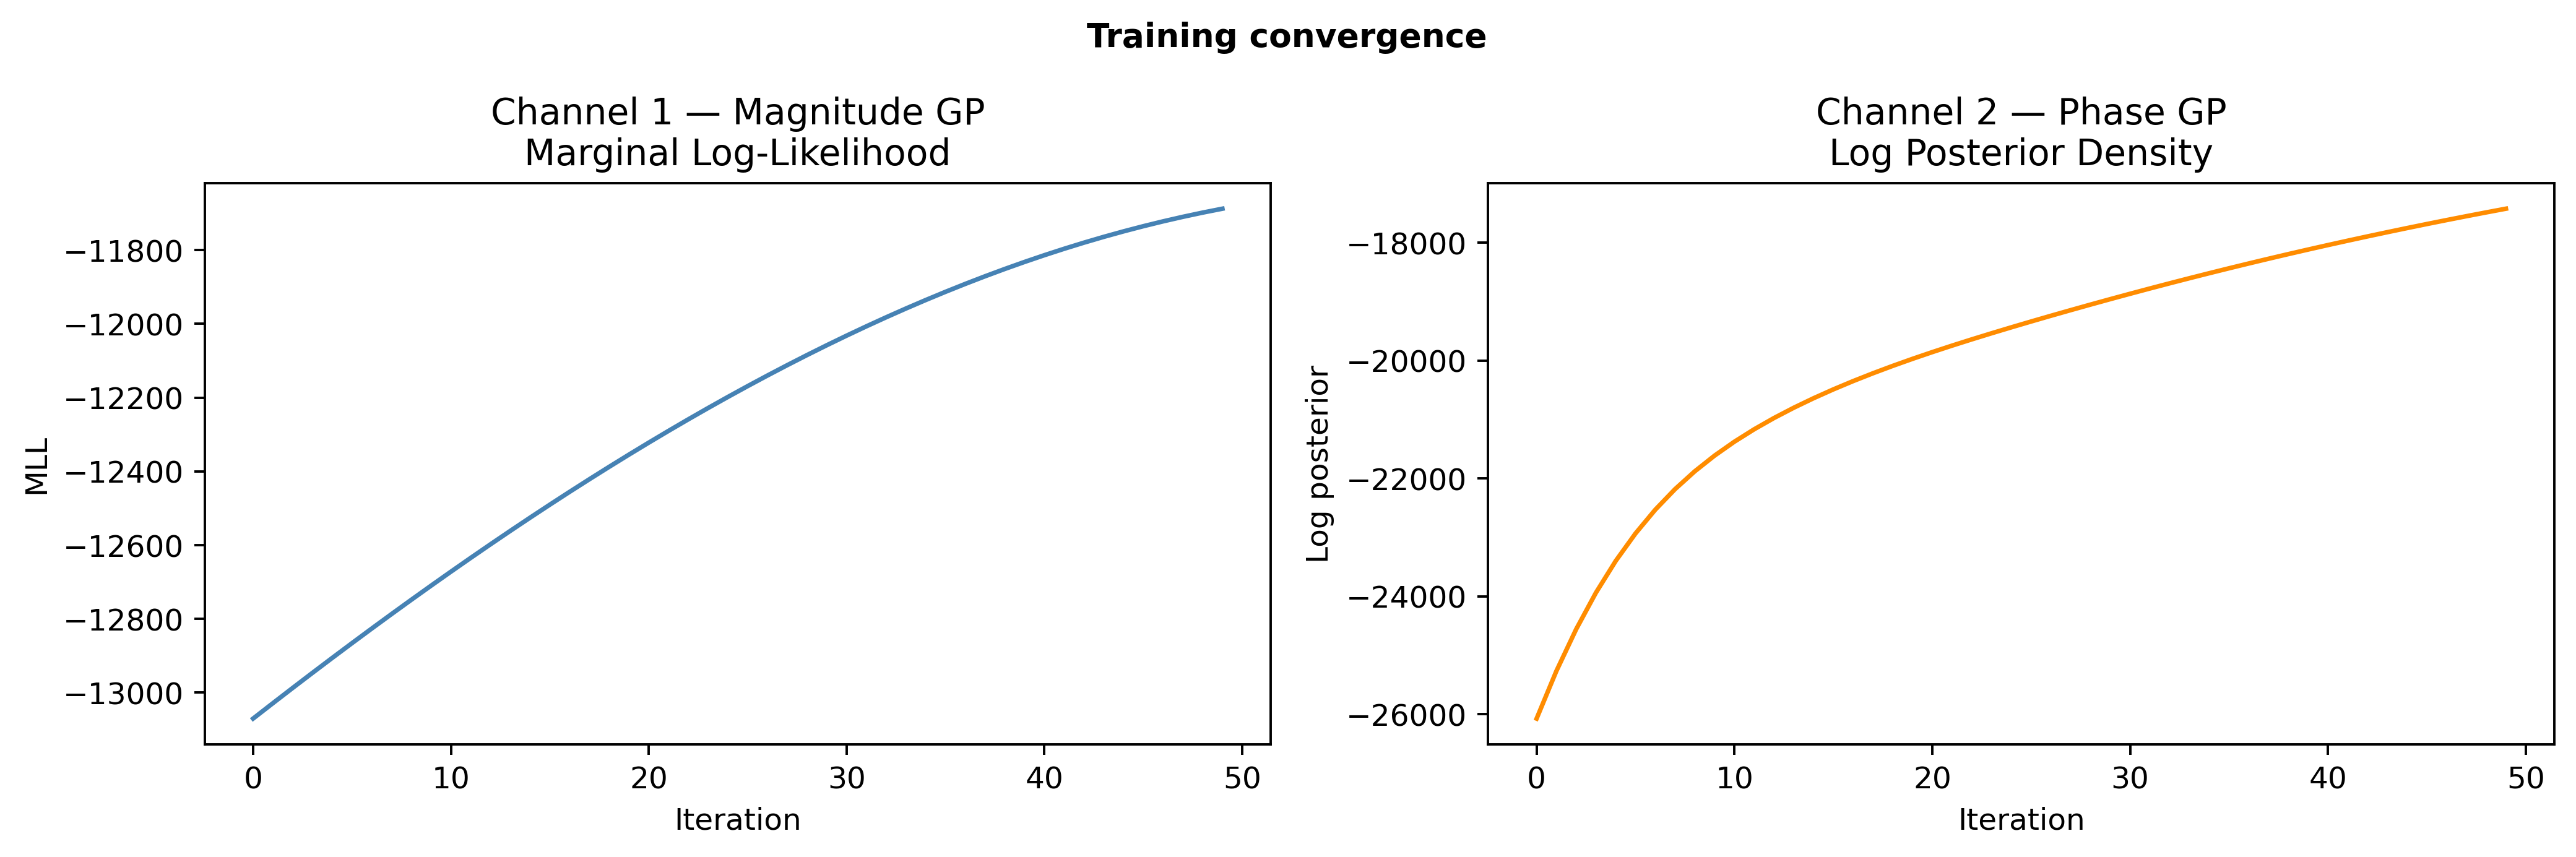
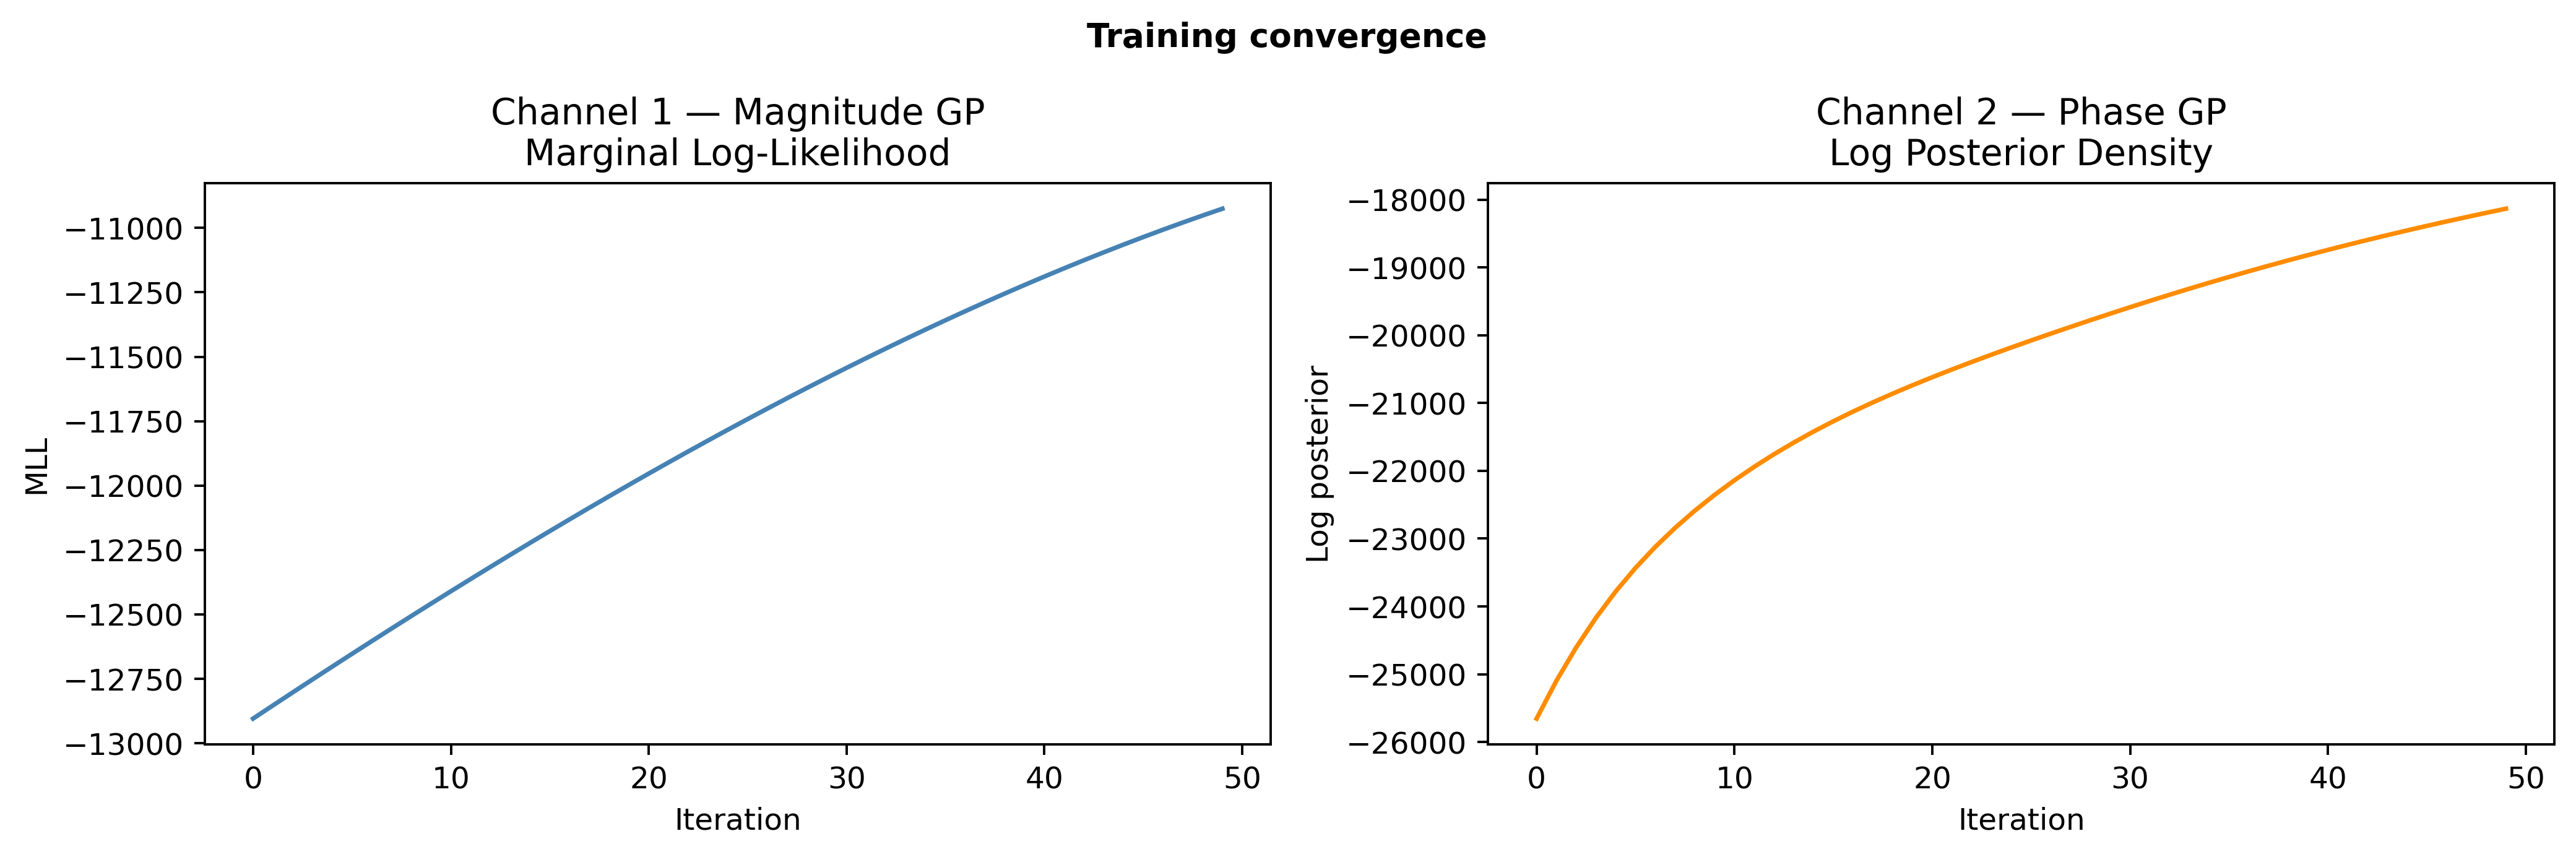
Please enter the commit message for your changes. Lines starting with '#' will be ignored, and an empty message aborts the commit.
On branch main
Your branch is up to date with 'origin/main'.

Changes to be committed:
	modified:   800kHz_CUDA_Outputs_Thickness/CUDA_frf_surface.png
	new file:   800kHz_CUDA_Outputs_Thickness/CUDA_gp_model.pkl
	new file:   800kHz_CUDA_Outputs_Thickness/CUDA_phase_surface.png
	modified:   800kHz_CUDA_Outputs_Thickness/CUDA_training_history.png
	new file:   800kHz_CUDA_Outputs_Thickness/mag_posterior.eqx
	new file:   800kHz_CUDA_Outputs_Thickness/sign_posterior.eqx
	modified:   Bivar_Cuda_GP.py
	modified:   GPU_myjob.e
	modified:   GPU_myjob.o

diff --git a/Bivar_Cuda_GP.py b/Bivar_Cuda_GP.py
@@ -25,13 +25,13 @@ Reconstruction:
 Kernel (both channels):
     k((ρ,f),(ρ',f')) = k_ρ(ρ,ρ') · k_f(f,f')   — Matérn 5/2 in each dim
 
-The training inputs form a grid (n_ρ × n_f), which enables Kronecker
+The training inputs form a grid (n_ρ × n_th x n_f), which enables Kronecker
 structure for efficient inference (see note at bottom of file).
 
 Created: 05/27/2026
 
 Modifications: This version of the code exploits GPU Parallelization
-Mallorie
+Ma110ri3 parallelization 
 """
 
 # ═════════════════════════════════════════════════════════════════════════════
@@ -78,8 +78,10 @@ n_rho = 25
 rho_0 = 0.2
 rho_values  = np.linspace(rho_0, 1.0-rho_0, 25)[:n_rho]
 thick_values = np.arange(0.0,6.0,1.0)
-dd = 7
-freq_values = np.arange(100.0, 601.0, dd, dtype=np.float64)
+# dd = 7
+dd = 11
+# freq_values = np.arange(100.0, 601.0, dd, dtype=np.float64)
+freq_values = np.arange(1.0, 800.0, dd, dtype=np.float64)
 frf_matrix  = np.zeros((np.shape(rho_values)[0]*np.shape(thick_values)[0],np.shape(freq_values)[0]))
 
 print(np.shape(frf_matrix))
@@ -88,12 +90,14 @@ cont0 = 0
 for cont1 in range(n_rho):
     # filn = '/work/ljk354/FRF_Optim/Training/CAE/Results_T1D' + str(cont1+1) + '.txt'
     filn = '/work/ljk354/FRF_Optim/Learning_GP/Data/Results_T1D' + str(cont1+1) + '.txt'
-    frf_matrix[cont0,:] = np.loadtxt(filn, skiprows=3)[99:600:dd,1].T
+    # frf_matrix[cont0,:] = np.loadtxt(filn, skiprows=3)[99:600:dd,1].T
+    frf_matrix[cont0,:] = np.loadtxt(filn, skiprows=3)[::dd,1].T
     cont0 += 1
     for cont2 in range(np.shape(thick_values)[0]-1):
         print(cont2)
         filn = '/work/ljk354/FRF_Optim/Learning_GP/Data_Th/Results_T1D' + str(cont1+1) + 'H' + str(2*cont2+1) + '.txt'
-        frf_matrix[cont0,:] = np.loadtxt(filn, skiprows=3)[99:600:dd,1].T
+        # frf_matrix[cont0,:] = np.loadtxt(filn, skiprows=3)[99:600:dd,1].T
+        frf_matrix[cont0,:] = np.loadtxt(filn, skiprows=3)[::dd,1].T
         cont0 += 1
     # end for
 # end for
@@ -669,7 +673,7 @@ os.chdir(foldr_out)
 
 # for res in loo_results:
 #     fig = plot_loo_result(res, freq_values)
-#     fig.savefig(f"CUDA_loo_fold_{res['fold']+1}.png", dpi=150, bbox_inches="tight")
+#     fig.savefig(f"CUDA_loo_fold_{res['fold']+1}.png", dpi=350, bbox_inches="tight")
 #     plt.close(fig)
 #     print(f"  Saved CUDA_loo_fold_{res['fold']+1}.png")
 # # end for
@@ -848,7 +852,7 @@ print("═" * 60)
 def plot_frf_surface(
     rho_values: np.ndarray,
     thick_values: np.ndarray,
-    frf_tensor: np.ndarray,      # (n_rho, n_thick, n_freq)
+    frf_matrix: np.ndarray,      # (n_rho, n_thick, n_freq)
     freq_values: np.ndarray,
     model: dict,
     rho_dense: np.ndarray = None,
@@ -869,15 +873,19 @@ def plot_frf_surface(
 
     if rho_dense is None:
         rho_dense = np.linspace(rho_values.min(), rho_values.max(), 25)
+    # end if
 
     if thick_dense is None:
         thick_dense = np.linspace(thick_values.min(), thick_values.max(), 25)
+    # end if
 
     if rho_fixed is None:
         rho_fixed = rho_values[len(rho_values)//2]
+    # end if
 
     if thick_fixed is None:
         thick_fixed = thick_values[len(thick_values)//2]
+    # end if
 
     rho_idx = np.argmin(np.abs(rho_values-rho_fixed))
     thick_idx = np.argmin(np.abs(thick_values-thick_fixed))
@@ -885,6 +893,18 @@ def plot_frf_surface(
     fig, axs = plt.subplots(2,2,figsize=figsize)
 
     cmap = plt.cm.viridis
+    
+    ###############################################################
+    # (0) Create frf_tensor
+    ###############################################################
+    frf_tensor = np.zeros((len(rho_values), len(thick_values), len(freq_values)))
+    cont0 = 0
+    for cont1 in range(len(rho_values)):
+        for cont2 in range(len(thick_values)):
+            frf_tensor[cont1, cont2, :] = frf_matrix[cont0, :]
+            cont0 += 1
+        # end for
+    # end for
 
     ###############################################################
     # (1) Training data : varying rho
@@ -1006,6 +1026,7 @@ def plot_frf_surface(
     fig.tight_layout()
 
     return fig
+# end plot_frf_surface
 
 # fig_surf = plot_frf_surface(
 #     rho_values, thick_values, frf_matrix, freq_values, model,
@@ -1025,39 +1046,236 @@ fig_surf = plot_frf_surface(
 fig_surf.savefig("CUDA_frf_surface.png", dpi=350, bbox_inches="tight")
 plt.close(fig_surf)
 
-print("\nDone. Outputs: loo_fold_*.png | training_history.png | frf_surface.png")
+print("\nDone frf_surface.png")
 print("═" * 60)
 
-# # ═════════════════════════════════════════════════════════════════════════════
-# # 8. Save model
-# # ═════════════════════════════════════════════════════════════════════════════
-# print("\n" + "═" * 60)
-# print("STEP 8 — Saving model")
-# print("═" * 60)
+# ═════════════════════════════════════════════════════════════════════════════
+# 8. Predict at a new density & visualise the Phase surface
+# ═════════════════════════════════════════════════════════════════════════════
+print("\n" + "═" * 60)
+print("STEP 8 — Starting Phase Surface Visualisation")
+print("═" * 60)
 
-# # Saving the model using pkl
-# import pickle
-# with open("CUDA_gp_model.pkl", "wb") as f:
-#     pickle.dump(model, f)
+def plot_phase_surface(
+    rho_values: np.ndarray,
+    thick_values: np.ndarray,
+    frf_matrix: np.ndarray,
+    freq_values: np.ndarray,
+    model: dict,
+    rho_dense: np.ndarray=None,
+    thick_dense: np.ndarray=None,
+    rho_fixed: float=None,
+    thick_fixed: float=None,
+    figsize=(15,10),
+):
+    """
+    Four-panel visualization of phase.
 
-# # Saving the model using equinos
-# import equinox as eqx 
-# eqx.tree_serialise_leaves("CUDA_gp_model.eqx", model)
+        (1) Training phase varying rho
+        (2) GP phase varying rho
 
-# print("\nFinished saving model")
-# print("═" * 60)
+        (3) Training phase varying thickness
+        (4) GP phase varying thickness
+    """
 
+    if rho_dense is None:
+        rho_dense = np.linspace(rho_values.min(), rho_values.max(),25)
+    # end if
 
- 
+    if thick_dense is None:
+        thick_dense = np.linspace(thick_values.min(), thick_values.max(),25)
+    # end if
 
+    if rho_fixed is None:
+        rho_fixed = rho_values[len(rho_values)//2]
+    # end if
 
+    if thick_fixed is None:
+        thick_fixed = thick_values[len(thick_values)//2]
+    # end if
 
+    rho_idx   = np.argmin(np.abs(rho_values-rho_fixed))
+    thick_idx = np.argmin(np.abs(thick_values-thick_fixed))
 
+    fig,axs = plt.subplots(2,2,figsize=figsize)
 
+    cmap = plt.cm.viridis
 
+    ###############################################################
+    # (0) Create frf_tensor
+    ###############################################################
+    frf_tensor = np.zeros((len(rho_values), len(thick_values), len(freq_values)))
+    cont0 = 0
+    for cont1 in range(len(rho_values)):
+        for cont2 in range(len(thick_values)):
+            frf_tensor[cont1, cont2, :] = frf_matrix[cont0, :]
+            cont0 += 1
+        # end for
+    # end for
 
+    ############################################################
+    # Training : varying rho
+    ############################################################
 
+    ax = axs[0,0]
 
+    for i,rho in enumerate(rho_values):
 
+        H = frf_tensor[i,thick_idx,:]
 
+        phase = np.where(H>=0,0.0,180.0)
 
+        ax.plot(
+            freq_values,
+            phase,
+            color=cmap(i/max(len(rho_values)-1,1)),
+            lw=1,
+        )
+
+    ax.set_title(f"Training Phase\nVarying Relative Density\nThickness={thick_values[thick_idx]:.2f}")
+    ax.set_ylabel("Phase [deg]")
+
+    ############################################################
+    # GP : varying rho
+    ############################################################
+
+    ax = axs[0,1]
+
+    for i,rho in enumerate(rho_dense):
+
+        pred = predict_frf(
+            rho,
+            thick_values[thick_idx],
+            freq_values,
+            model["mag_post"],
+            model["sign_post"],
+            model["mag_ds"],
+            model["sign_ds"],
+            model["meta"],
+        )
+
+        phase = np.where(pred["pred_sign"]>0,0.0,180.0)
+
+        ax.plot(
+            freq_values,
+            phase,
+            color=cmap(i/max(len(rho_dense)-1,1)),
+            lw=1,
+        )
+
+    ax.set_title("GP Phase\nVarying Relative Density")
+
+    ############################################################
+    # Training : varying thickness
+    ############################################################
+
+    ax = axs[1,0]
+
+    for j,t in enumerate(thick_values):
+
+        H = frf_tensor[rho_idx,j,:]
+
+        phase = np.where(H>=0,0.0,180.0)
+
+        ax.plot(
+            freq_values,
+            phase,
+            color=cmap(j/max(len(thick_values)-1,1)),
+            lw=1,
+        )
+
+    ax.set_title(f"Training Phase\nVarying Thickness\nDensity={rho_values[rho_idx]:.2f}")
+    ax.set_xlabel("Frequency [kHz]")
+    ax.set_ylabel("Phase [deg]")
+
+    ############################################################
+    # GP : varying thickness
+    ############################################################
+
+    ax = axs[1,1]
+
+    for j,t in enumerate(thick_dense):
+
+        pred = predict_frf(
+            rho_values[rho_idx],
+            t,
+            freq_values,
+            model["mag_post"],
+            model["sign_post"],
+            model["mag_ds"],
+            model["sign_ds"],
+            model["meta"],
+        )
+
+        phase = np.where(pred["pred_sign"]>0,0.0,180.0)
+
+        ax.plot(
+            freq_values,
+            phase,
+            color=cmap(j/max(len(thick_dense)-1,1)),
+            lw=1,
+        )
+
+    ax.set_title("GP Phase\nVarying Thickness")
+    ax.set_xlabel("Frequency [kHz]")
+
+    ############################################################
+
+    for ax in axs.flat:
+
+        ax.set_ylim([-10,190])
+        ax.set_yticks([0,180])
+        ax.grid(alpha=0.25)
+
+    fig.tight_layout()
+
+    return fig
+# end plot_phase_surface
+
+fig_phase = plot_phase_surface(
+    rho_values,
+    thick_values,
+    frf_matrix,
+    freq_values,
+    model,
+    rho_dense=np.linspace(rho_values.min(), rho_values.max(),25),
+    thick_dense=np.linspace(thick_values.min(), thick_values.max(),25),
+)
+
+fig_phase.savefig(
+    "CUDA_phase_surface.png",
+    dpi=350,
+    bbox_inches="tight",
+)
+plt.close(fig_phase)
+
+print("\nDone. phase_surface.png")
+print("═" * 60)
+
+# ═════════════════════════════════════════════════════════════════════════════
+# 8. Save model
+# ═════════════════════════════════════════════════════════════════════════════
+print("\n" + "═" * 60)
+print("STEP 8 — Saving model")
+print("═" * 60)
+
+# import equinox as eqx
+
+# eqx.tree_serialise_leaves(
+#     "mag_posterior.eqx",
+#     model["mag_post"],
+# )
+
+# eqx.tree_serialise_leaves(
+#     "sign_posterior.eqx",
+#     model["sign_post"],
+# )
+
+# Saving the model using pkl
+import pickle
+with open("CUDA_gp_model.pkl", "wb") as f:
+    pickle.dump(model, f)
+# end with
+
+print("\nFinished saving model")
+print("═" * 60)